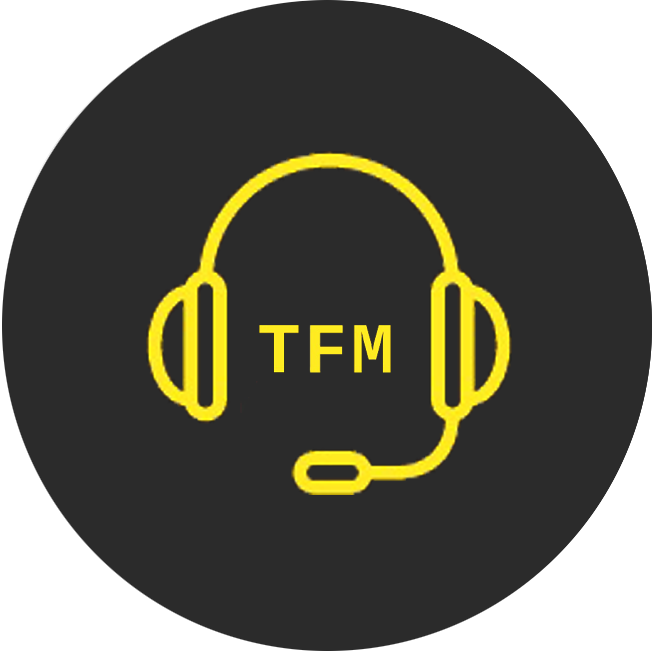
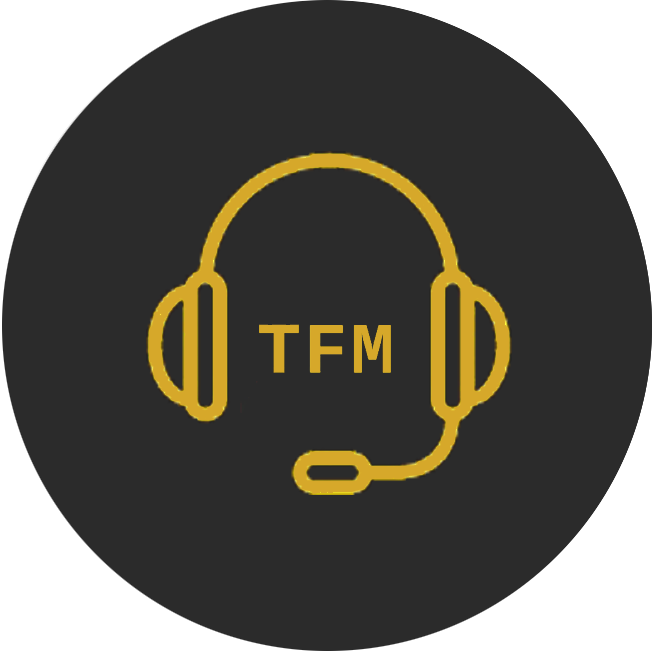
FECHA PARA NUEVA Y MODIFICAR TAREA CASI ME VUELVO LOCO

Changed region(s): [[0.4294, 0.3067, 0.7975, 0.7669], [0.2147, 0.2147, 0.6442, 0.6442], [0.3988, 0.4908, 0.6135, 0.5828]]

diff --git a/src/components/homework/newHomework.js b/src/components/homework/newHomework.js
@@ -1,14 +1,51 @@
 import React, { useState, useContext, useEffect } from 'react';
-import { TextField, Box, Grid, Card, Typography  } from '@material-ui/core';
+import { TextField, Box, Grid, Card, Typography, createMuiTheme, ThemeProvider  } from '@material-ui/core';
 import { ColorButton, useStyles, YellowSwitch } from './style';
 import HomeworkService from '../../services/homeworkService';
 import { UserContext } from '../../userContext';
+import { MuiPickersUtilsProvider } from '@material-ui/pickers';
+import MomentUtils from '@date-io/moment';
+import { KeyboardDatePicker } from "@material-ui/pickers";
+import moment from 'moment';
 
 const modelHomework = {
     title: '',
     description: '',
-    available: false
+    available: false,
+    deadLine: moment()
 }
+
+const materialTheme = createMuiTheme({
+    overrides: {
+      MuiPickersToolbar: {
+        toolbar: {
+          backgroundColor: '#d6a82a',
+        },
+      },
+      MuiPickersCalendarHeader: {
+        switchHeader: {
+          // backgroundColor: lightBlue.A200,
+          // color: "white",
+        },
+      },
+      MuiPickersDay: {
+        day: {
+          color: '#d6a82a',
+        },
+        daySelected: {
+          backgroundColor: '#d6a82a',
+        },
+        current: {
+          color: '#d6a82a',
+        },
+      },
+      MuiButton: {
+        textPrimary: {
+            color: '#d6a82a',
+        }
+      }
+    },
+});
 
 export default function NewHomework(props) {
     const classes = useStyles();
@@ -18,13 +55,23 @@ export default function NewHomework(props) {
 
     const [homework, setHomework] = useState(modelHomework);
     const [switchCheck, setSwitchCheck] = useState(false);
+
     const homeworkService = new HomeworkService();
     const {user, setUser} = useContext(UserContext);
 
     useEffect(() => {
         if(user.modifyHomework){
-            setHomework(user.modifyHomework); 
+            let deadLine = moment(user.modifyHomework.deadLine, 'DD/MM/yyyy'); //TE ODIO
+
+            setHomework({
+                title: user.modifyHomework.title,
+                description: user.modifyHomework.description,
+                available: user.modifyHomework.available,
+                deadLine: deadLine
+            });
+
             setSwitchCheck(user.modifyHomework.available);
+           
         } 
     }, [user])
 
@@ -32,6 +79,13 @@ export default function NewHomework(props) {
         setHomework({
           ...homework,
           [e.target.name]: e.target.value
+        });
+    }
+
+    const changeDeadLine = (date) => {
+        setHomework({
+            ...homework,
+            deadLine: date
         });
     }
 
@@ -45,6 +99,7 @@ export default function NewHomework(props) {
                 homeworkModified.title = homework.title;
                 homeworkModified.description = homework.description;
                 homeworkModified.available = switchCheck;
+                homeworkModified.deadLine = homework.deadLine.format("DD/MM/yyyy");
                 homeworkService.modifyHomework(homeworkModified, user.modifyHomework.id)
                 .then(() => getHomeworksTeacher());
                 setHomework(modelHomework);
@@ -62,7 +117,6 @@ export default function NewHomework(props) {
             }
         }else{
             try {
-                debugger;
                 homeworkService.newHomework(homework, user.id, classroomId)
                 .then(() => getHomeworksTeacher());
                 setHomework(modelHomework);
@@ -107,6 +161,19 @@ export default function NewHomework(props) {
                         <TextField variant="outlined" margin="normal" name="description" label="Descripcion" id="description" multiline value={homework.description} onChange={update}></TextField>
                         <Typography>Disponible</Typography>
                         <YellowSwitch checked={switchCheck} onChange={handleChange} name="switchCheck"></YellowSwitch>
+                        <ThemeProvider theme={materialTheme}>
+                            <MuiPickersUtilsProvider utils={MomentUtils}>
+                                <KeyboardDatePicker
+                                    clearable
+                                    value={homework.deadLine}
+                                    name="deadLine"
+                                    placeholder="Fecha limite"
+                                    onChange={changeDeadLine}
+                                    minDate={moment()}
+                                    format="DD/MM/yyyy"
+                                />
+                            </MuiPickersUtilsProvider>
+                        </ThemeProvider>
                         <Grid item >
                             <ColorButton className={classes.button} onClick={cancel} style={{marginLeft: '10px'}}>Cancelar</ColorButton>
                             { formHasData() ?

diff --git a/src/services/homeworkService.js b/src/services/homeworkService.js
@@ -1,5 +1,6 @@
 import axios from "axios";
 import { URL } from "./URL";
+import { DialogTitle } from "@material-ui/core";
 
 export default class HomeworkService {
   async getHomework(userId, classroomId) {
@@ -25,10 +26,16 @@ export default class HomeworkService {
   }
 
   async newHomework(homework, userId, classroomId) {
-    const result = await axios.post(
-      `${URL}classroom/${classroomId}/homework/user/${userId}`,
-      homework
-    );
+    const { title, description, available, deadLine } = homework;
+
+    let hs = {
+      title: title,
+      description: description,
+      available: available,
+      deadLine: deadLine.format("DD/MM/yyyy")
+    }
+
+    const result = await axios.post(`${URL}classroom/${classroomId}/homework/user/${userId}`, hs);
     return result.data;
   }
 
